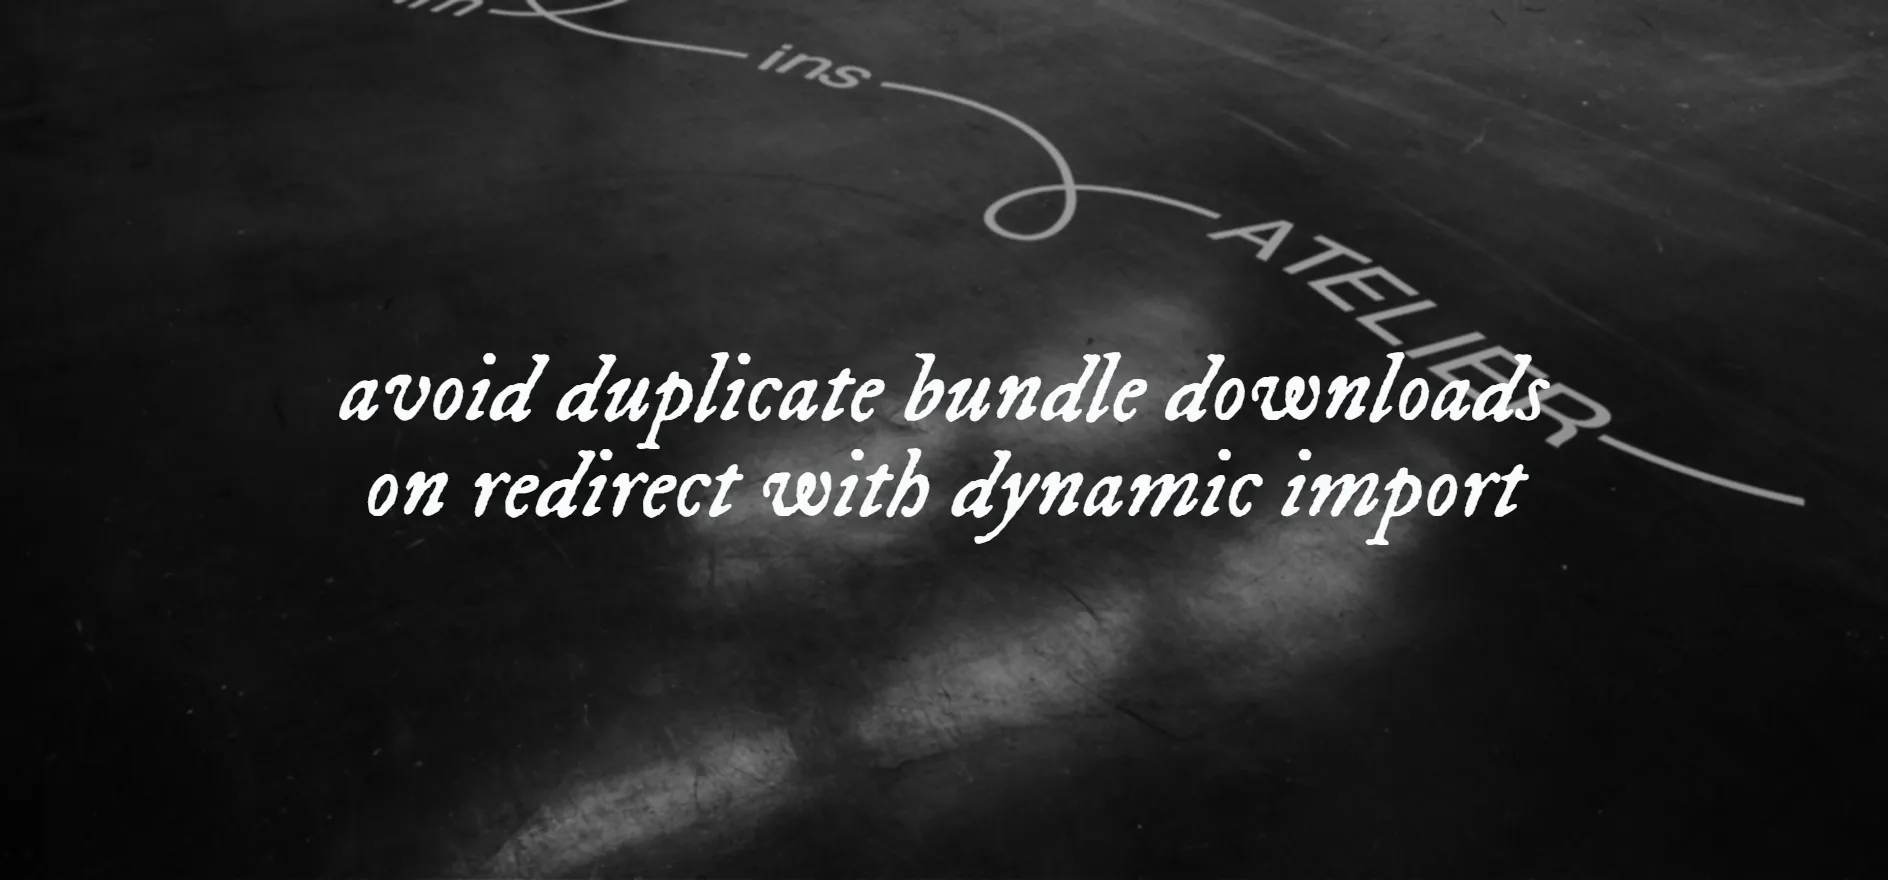
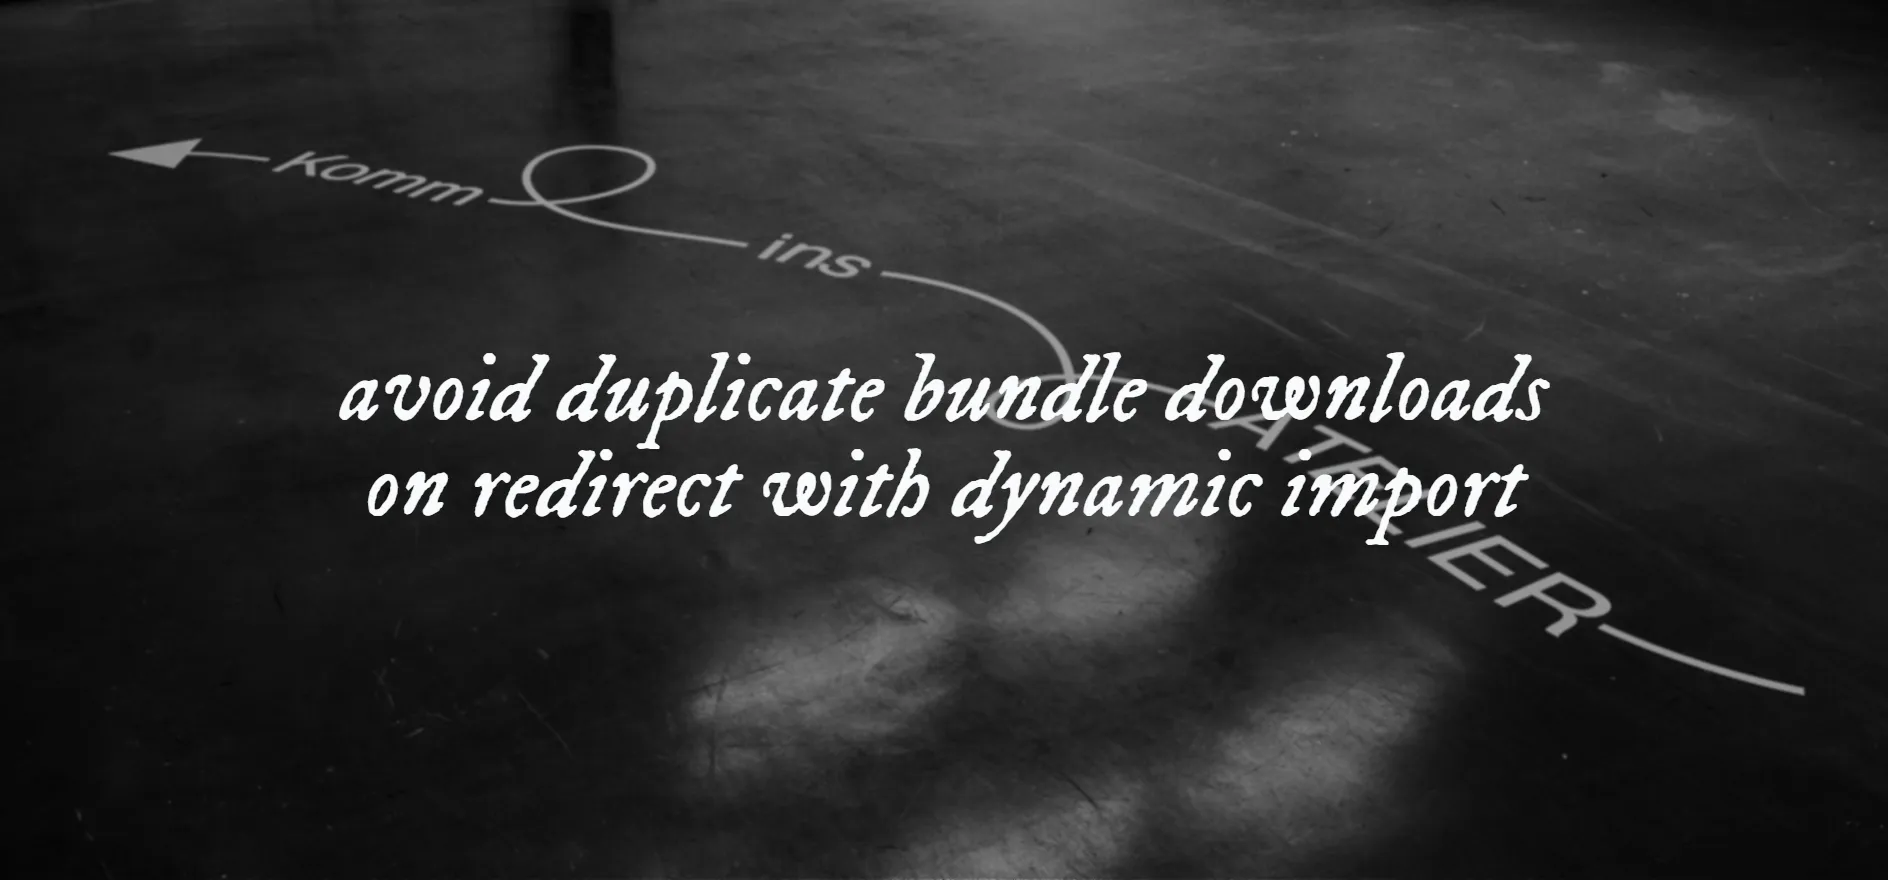
fix: improve supabase blog seo

diff --git a/src/contents/blog/supabase-auto-sleep-fix.md b/src/contents/blog/supabase-auto-sleep-fix.md
@@ -1,7 +1,7 @@
 ---
-title: Solve Supabase Auto-Sleep on Unlaunched Projects with GitHub Actions
+title: Stop Supabase Auto-Sleep Before Launch with GitHub Actions
 image: ./images/supabase-auto-sleep-fix.webp
-imageCaption: An image with the text "solve supabase auto-sleep on unlaunched projects with gitHub actions"
+imageCaption: An image with the text "stop supabase auto-sleep before launch with GitHub Actions"
 imageCredit: Annie Spratt
 imageLink: https://unsplash.com/photos/white-bed-comforter-set-and-brown-wooden-bed-frame-beside-brown-wooden-nightstand-4Wlp6m8hroE
 description: Keep Supabase alive automatically with a simple GitHub Actions setup
@@ -20,19 +20,19 @@ Supabase is my go-to for side projects. It's free, easy to set up, and the docum
 
 Supabase gave me everything I needed out of the box: authentication, a Postgres database, REST and realtime APIs, and a nice dashboard to manage it all. I could focus on building the actual product instead of worrying about infrastructure.
 
-## The Problem with Auto-Sleep
+## The problem with auto-sleep
 
 Auto-sleep might save resources, but it's a headache when you're actively developing. Imagine trying to test something quickly and suddenly realizing your backend is paused. You waste time logging in, waiting for things to spin back up, and only then can you continue.
 
 I needed a way to keep my Supabase project alive without relying on real user traffic.
 
-## My Solution: Ping the Project Daily with GitHub Actions
+## My solution, pinging the project daily with GitHub Actions
 
 I came up with a simple automation using GitHub Actions workflow that runs every night, pings a public page in my project, and updates a `data.txt` file to log the visit. Then it auto-commits the change, so I also get a bonus daily green square on my GitHub contribution graph.
 
-This keeps my Supabase project awake and helps maintain a clean commit streak. Double win.
+This keeps my Supabase project awake and gives me a clean commit streak as a side effect.
 
-## What the GitHub Action Does
+## What the GitHub Action does
 
 The action runs every 24 hours using a scheduled cron job. It:
 
@@ -93,13 +93,8 @@ jobs:
 
 After generating the token, go to Settings → Secrets and variables → Actions → New repository secret, and add it using the same name you reference in the workflow script.
 
-## Why This Setup Works So Well
+## Why this setup works
 
-This tiny workflow solves two problems at once:
+This tiny workflow solves two problems at once: it keeps your Supabase project alive by simulating traffic, and it logs visits while keeping your commit streak alive. You don't need a third-party uptime checker, manual clicks, or a complex backend script for any of it.
 
-- Keeps your Supabase project alive by simulating traffic
-- Logs visits and keeps your commit streak alive
-
-No need for third-party uptime checkers. No need for manual clicks. And no need to write complex backend scripts.
-
-If you're working on a Supabase project that's not yet live, this is one of the easiest and most effective ways to keep things running.
+If you're working on a Supabase project that's not yet live, this is one of the easiest ways to keep things running.
